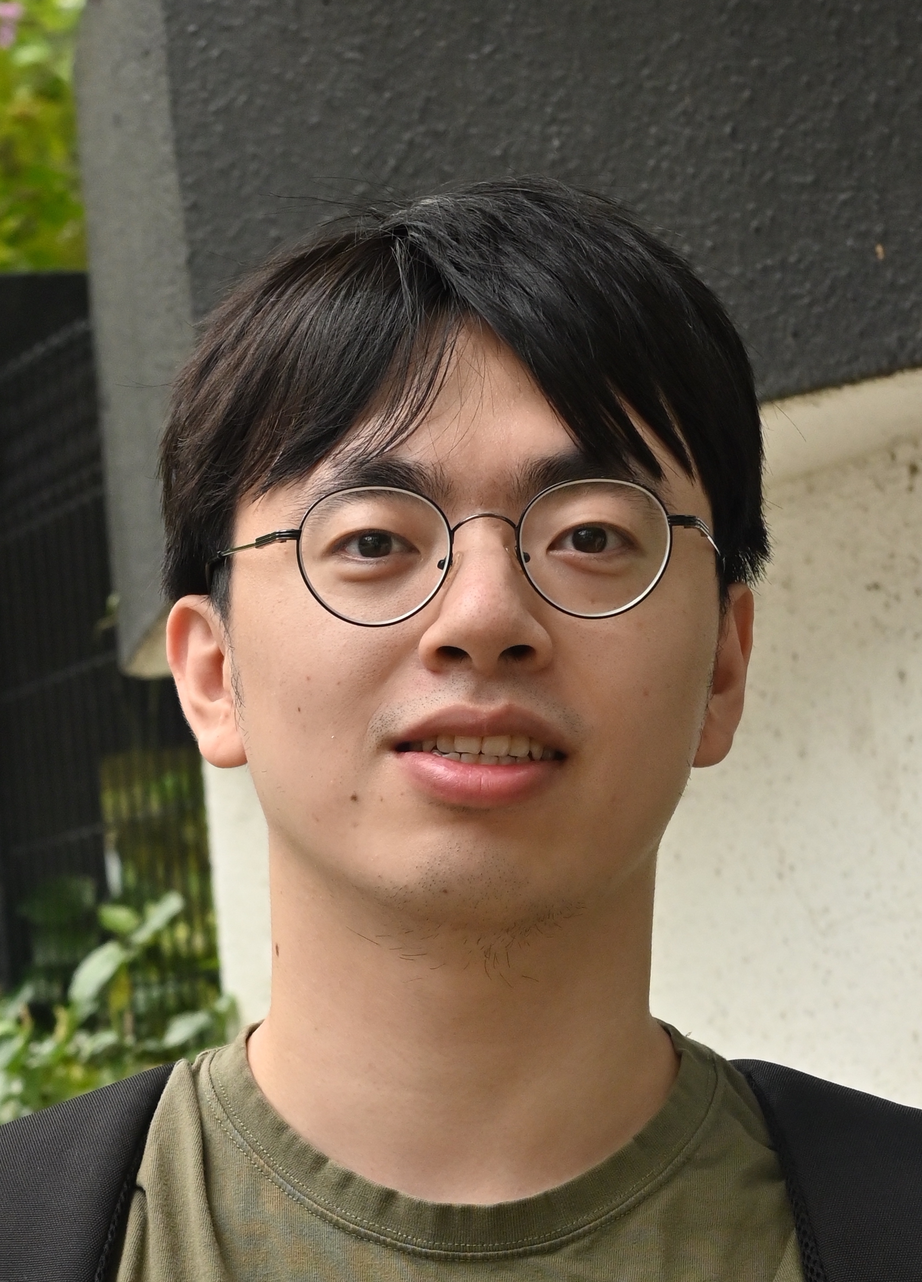
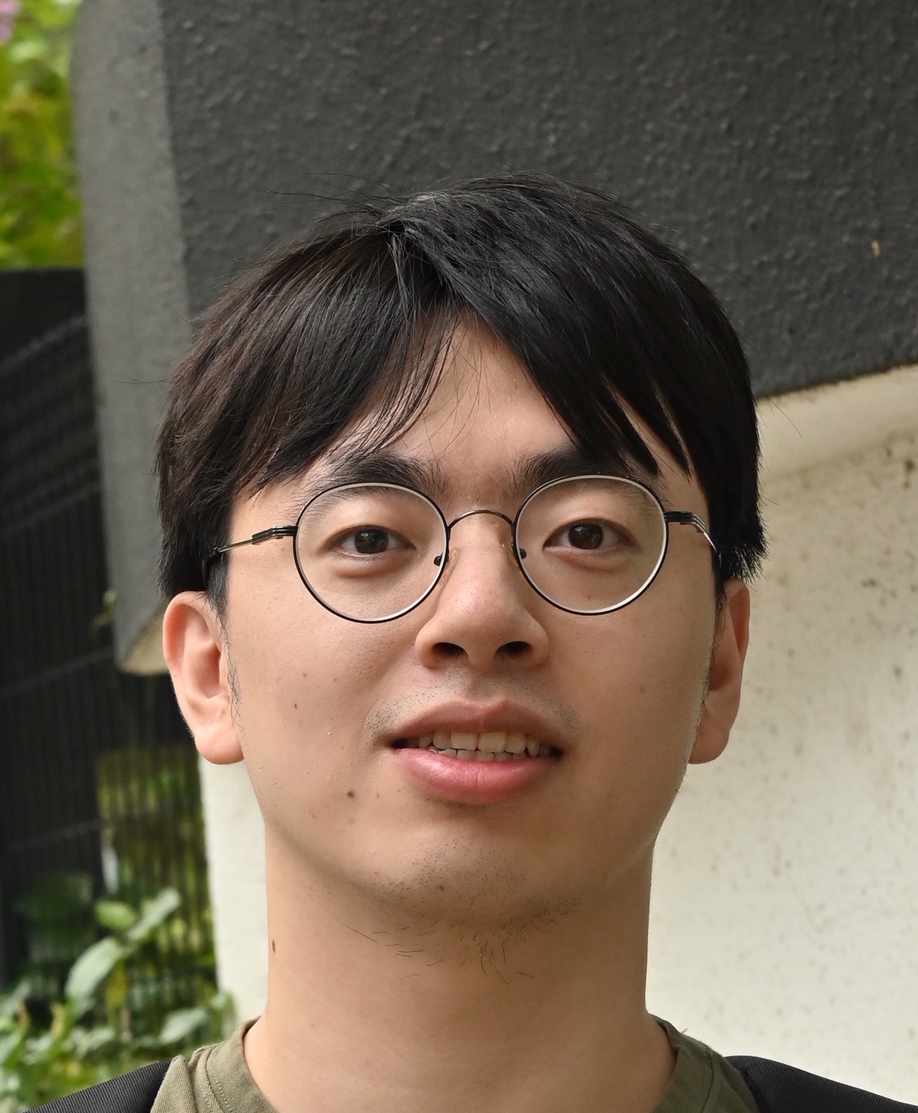
udpated site

diff --git a/author/zhao-yue/index.html b/author/zhao-yue/index.html
@@ -308,8 +308,8 @@
   <meta property="og:site_name" content="ML for Data Management" />
   <meta property="og:url" content="https://MLxDB.github.io/author/zhao-yue/" />
   <meta property="og:title" content="ZHAO Yue | ML for Data Management" />
-  <meta property="og:description" content="A highly-customizable Hugo research group theme powered by Wowchemy website builder." /><meta property="og:image" content="https://MLxDB.github.io/author/zhao-yue/avatar_hu148e8b3052e181beb50b1422972ef977_1948769_270x270_fill_q75_lanczos_center.jpeg" />
-    <meta property="twitter:image" content="https://MLxDB.github.io/author/zhao-yue/avatar_hu148e8b3052e181beb50b1422972ef977_1948769_270x270_fill_q75_lanczos_center.jpeg" /><meta property="og:locale" content="en-us" />
+  <meta property="og:description" content="A highly-customizable Hugo research group theme powered by Wowchemy website builder." /><meta property="og:image" content="https://MLxDB.github.io/author/zhao-yue/avatar_hu148e8b3052e181beb50b1422972ef977_1654796_270x270_fill_q75_lanczos_center.jpeg" />
+    <meta property="twitter:image" content="https://MLxDB.github.io/author/zhao-yue/avatar_hu148e8b3052e181beb50b1422972ef977_1654796_270x270_fill_q75_lanczos_center.jpeg" /><meta property="og:locale" content="en-us" />
   
     
   
@@ -696,7 +696,7 @@
       
       <img class="avatar avatar-circle"
            width="270" height="270"
-           src="/author/zhao-yue/avatar_hu148e8b3052e181beb50b1422972ef977_1948769_270x270_fill_q75_lanczos_center.jpeg" alt="ZHAO Yue">
+           src="/author/zhao-yue/avatar_hu148e8b3052e181beb50b1422972ef977_1654796_270x270_fill_q75_lanczos_center.jpeg" alt="ZHAO Yue">
       
 
       <div class="portrait-title">

diff --git a/people/index.html b/people/index.html
@@ -1544,7 +1544,7 @@
     
     
       
-      <a href="/author/zhao-yue/"><img width="270" height="270" loading="lazy" class="avatar avatar-circle" src="/author/zhao-yue/avatar_hu148e8b3052e181beb50b1422972ef977_1948769_270x270_fill_q75_lanczos_center.jpeg" alt="Avatar"></a>
+      <a href="/author/zhao-yue/"><img width="270" height="270" loading="lazy" class="avatar avatar-circle" src="/author/zhao-yue/avatar_hu148e8b3052e181beb50b1422972ef977_1654796_270x270_fill_q75_lanczos_center.jpeg" alt="Avatar"></a>
     
 
     <div class="portrait-title">
